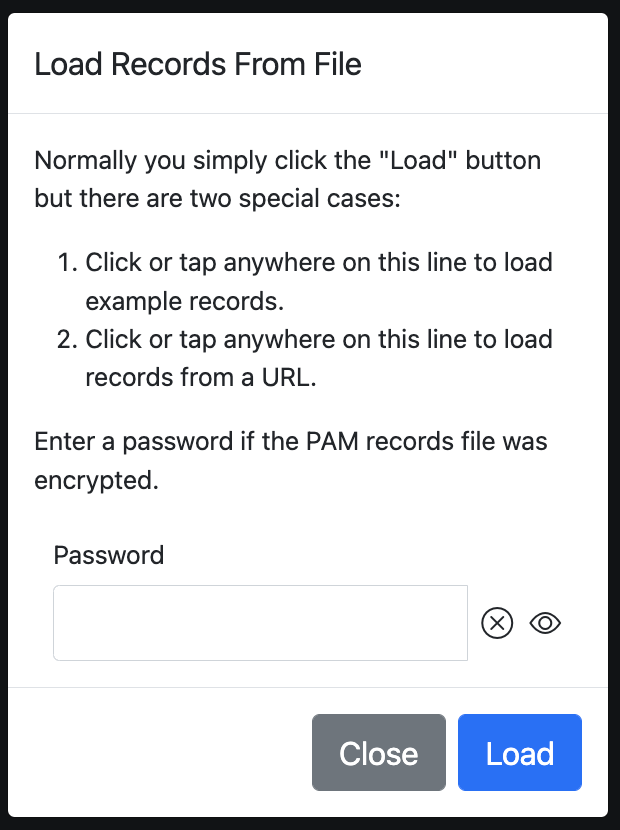
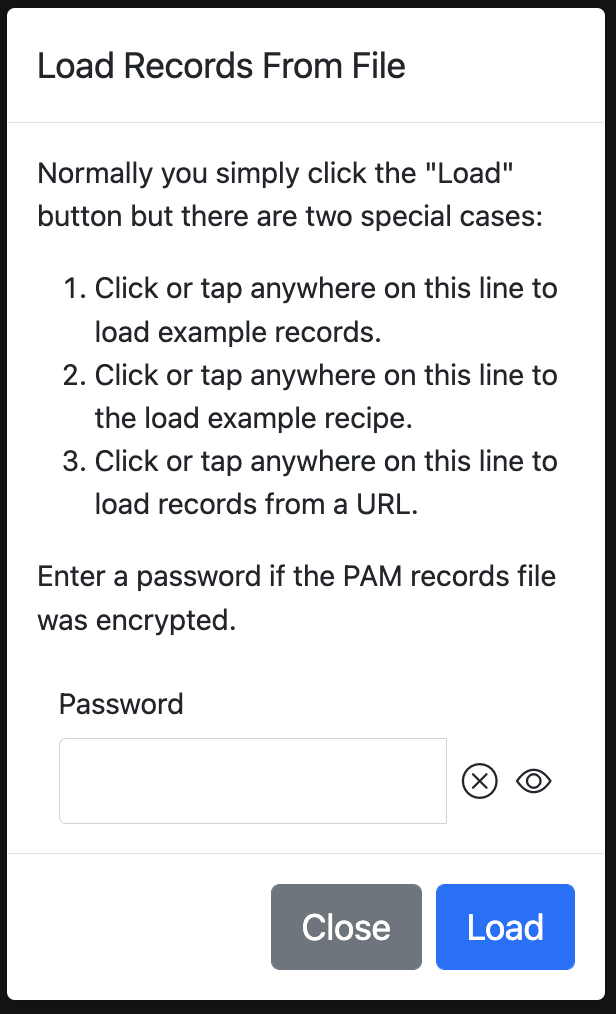
update text in load file dialogue, update readme

diff --git a/www/js/load.js b/www/js/load.js
@@ -20,6 +20,9 @@ export function menuLoadDlg() {
                     .xAddEventListener('click', (event) => loadExample(event))
                     .xInnerHTML('Click or tap anywhere on this line to load example records.'),
                 xmk('li')
+                    .xAddEventListener('click', (event) => loadExampleRecipe(event))
+                    .xInnerHTML('Click or tap anywhere on this line to the example recipes.'),
+                xmk('li')
                     .xAddEventListener('click', (event) => loadUrl(event))
                     .xInnerHTML('Click or tap anywhere on this line to load records from a URL.'),
             ),
@@ -95,6 +98,18 @@ function loadExample(event) {
     let lidx = href.lastIndexOf('/') + 1
     let base = href.substring(0, lidx)
     let url = base + 'examples/example.txt'
+    if (confirm(`Do you really want to load the example from\n${url}?`) !== true) {
+        return
+    }
+    loadUrlContent(url)
+}
+
+function loadExampleRecipe(event) {
+    // figure out the base url
+    let href = window.location.href
+    let lidx = href.lastIndexOf('/') + 1
+    let base = href.substring(0, lidx)
+    let url = base + 'examples/recipes.txt'
     if (confirm(`Do you really want to load the example from\n${url}?`) !== true) {
         return
     }

diff --git a/README.md b/README.md
@@ -1278,17 +1278,32 @@ This is the load file dialogue.
 If the file was saved with a password, you must enter that password or
 the file will prompt for the password when loading.
 
+##### Example Records
 If you wish to load the example records file, click or tap on the
 examples text (#1) to load example records that can be used to get you
 started.
 
-<img src="www/help/pam-file-load-example.png" width="400" alt="file-load-example">
+<img src="www/help/pam-file-load-example.png" width="400" alt="load-example-records">
 
 These are the records that are loaded.
 
 <img src="www/help/pam-file-load-example-records.png" width="400" alt="file-load-example-records">
 
-Click or tap on the URL text (#2) to load a file from the web.
+##### Example Recipe
+If you wish to load the example recipes file, click or tap on the
+examples text (#2).
+
+<img src="www/help/pam-file-load-recipes.png" width="400" alt="load-example-recipes">
+
+This is what is loaded.
+
+<img src="www/help/pam-ice-cream-sundae-open.png" width="400" alt="ice-cream-sundae-example">
+
+##### URL
+Click or tap on the URL text (#3) to load a file from the web.
+
+<img src="www/help/pam-file-load-url.png" width="400" alt="load-url">
+
 This is typically used when a PAM records file is shared because
 no changes can be made.
 
